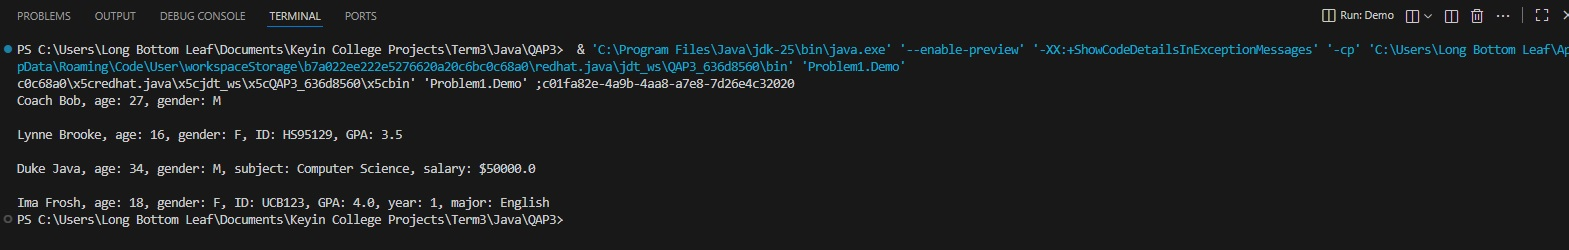
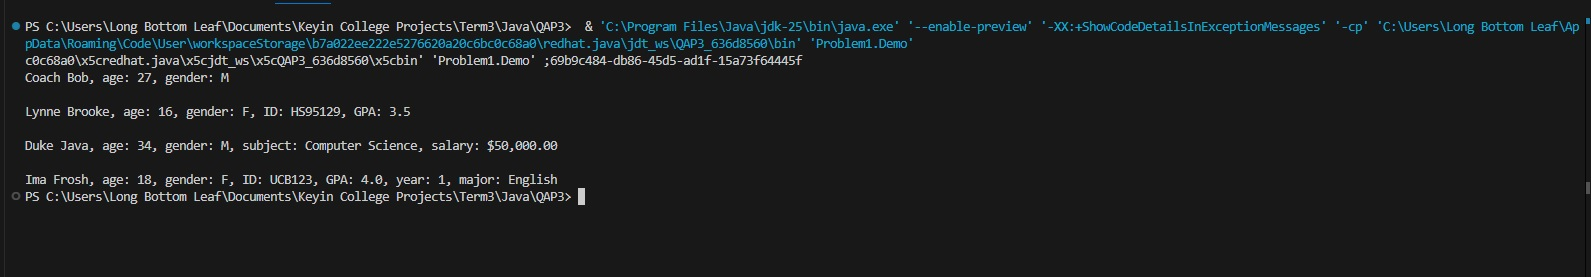
Small update to class and output img

diff --git a/Problem1/Demo.java b/Problem1/Demo.java
@@ -6,24 +6,24 @@ package Problem1;
  * 
  * This serves as the entry point for the application.
  * 
- * author 
+ * @author Stephen
  */
 public class Demo {
     public static void main(String[] args) {
         // Create a Person
         Person bob = new Person("Coach Bob", 27, "M");
-        System.out.println(bob);
+        System.out.println("\n" + bob);
 
         // Create a Student
         Student lynne = new Student("Lynne Brooke", 16, "F", "HS95129", 3.5);
-        System.out.println(lynne);
+        System.out.println("\n" + lynne);
 
         // Create a Teacher
         Teacher mrJava = new Teacher("Duke Java", 34, "M", "Computer Science", 50000);
-        System.out.println(mrJava);
+        System.out.println("\n" + mrJava);
 
         // Create a CollegeStudent
         CollegeStudent ima = new CollegeStudent("Ima Frosh", 18, "F", "UCB123", 4.0, 1, "English");
-        System.out.println(ima);
+        System.out.println("\n" + ima);
     }
 }

diff --git a/Problem1/Student.java b/Problem1/Student.java
@@ -7,7 +7,7 @@ package Problem1;
  * This class demonstrates inheritance by adding new fields and methods while
  * reusing functionality from the Person superclass.
  * 
- * @author 
+ * @author Stephen
  */
 public class Student extends Person {
     protected String myIdNum;  // student ID number

diff --git a/Problem1/CollegeStudent.java b/Problem1/CollegeStudent.java
@@ -7,7 +7,7 @@ package Problem1;
  * 
  * This class further extends the concept of inheritance from Student.
  * 
- * author 
+ * @author Stephen
  */
 public class CollegeStudent extends Student {
     private int myYear;     // year in college (1=FROSH, 2=SOPH, etc.)

diff --git a/Problem1/Teacher.java b/Problem1/Teacher.java
@@ -6,7 +6,7 @@ package Problem1;
  * 
  * This class demonstrates the use of inheritance and the super keyword.
  * 
- * @author 
+ * @author Stephen
  */
 public class Teacher extends Person {
     private String mySubject; // subject taught by the teacher

diff --git a/Problem1/Person.java b/Problem1/Person.java
@@ -5,7 +5,7 @@ package Problem1;
  * name, age, and gender. This class serves as a superclass for more specific
  * types of people like Student and Teacher.
  * 
- * @author 
+ * @author Stephen
  */
 public class Person {
     // Instance variables
